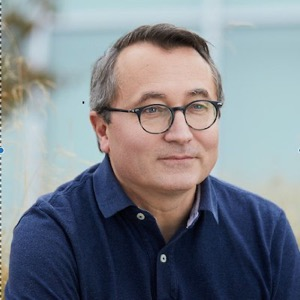
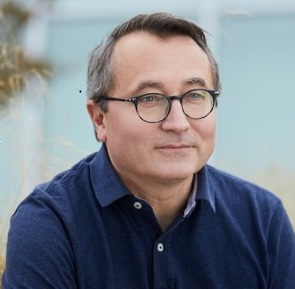
Photos

diff --git a/_site/lunch-discussions.html b/_site/lunch-discussions.html
@@ -5,7 +5,7 @@
 
 <meta name="description" content="Institute for Artificial Intelligence and Fundamental Interactions
 ">
-<link rel="canonical" href="https://iaifi.github.io/lunch-discussions.html"><!-- <link rel="alternate" type="application/rss+xml" title="NSF IAIFI" href="/feed.xml"> --><link rel="apple-touch-icon" sizes="180x180" href="/apple-touch-icon.png">
+<link rel="canonical" href="http://localhost:4000/lunch-discussions.html"><!-- <link rel="alternate" type="application/rss+xml" title="NSF IAIFI" href="/feed.xml"> --><link rel="apple-touch-icon" sizes="180x180" href="/apple-touch-icon.png">
 <link rel="icon" type="image/png" sizes="32x32" href="/favicon-32x32.png">
 <link rel="icon" type="image/png" sizes="16x16" href="/favicon-16x16.png">
 <link rel="manifest" href="/site.webmanifest">